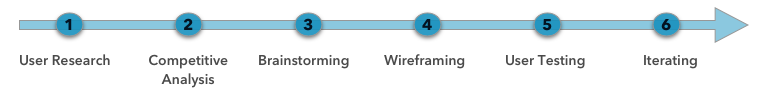
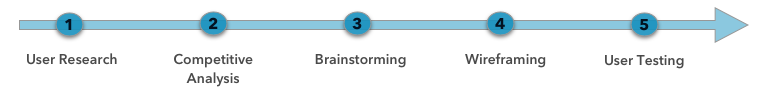
case study tweaks

diff --git a/eventapp/index.html b/eventapp/index.html
@@ -25,6 +25,7 @@
 			<h1>Dance Event App</h1>
 		</section>
 		<section>
+			<h2>The Problem</h2>
 			<p>West Coast Swing, Lindy Hop, Argentine Tango and other social dance forms have numerous annual events, workshop weekends and camps throughout the year. If you are willing to travel, you can go to an event every weekend. In order to learn about events, see the schedule, instructor and DJ list, and get hotel and travel information you have to visit each individual event website.</p>
 		</section>
 		<section>
@@ -34,28 +35,29 @@
 		<section>
 			<h2>The Approach</h2>
 			<img class="image" src="images/designapproach.jpg" alt="App Design Approach Diagram">
-			<h3>User Research</h3>
-			<p>I spoke with a variety of social dancers to get their feedback on the app and understand what features they would find most useful. I also asked them what information would be important to include about each event to help them determine if they wanted to attend. Here were my findings:</p>
+			<h3>1. User Research</h3>
+			<p>I spoke with a variety of social dancers to understand how they find out about events, what information is specifically important to help them determine if they want to attend an event and get their feedback on the app idea. Here were my findings:</p>
 			<ol>
+				<li>Many dancers find out about events from flyers, event websites, social media or word of mouth.</li>
 				<li>Dancers were excited about the idea and affirmed the need for a central resource.</li>
-				<li>There was less interest in the social or personalization components of the app.</li>
 				<li>They wanted to search and filter based on a lot of specific information about each event in order to determine if they wanted to attend.</li>
+				<li>There was less interest in the social or personalization components of the app.</li>
 			</ol>
-			<h3>Competitive Analysis</h3>
+			<h3>2. Competitive Analysis</h3>
 			<p>I reviewed numerous dance event websites and several websites that attempt to compile local and national events. Here were my takeaways:</p>
 			<ol>
 				<li>The websites that compile event information just list events based on location or date and don't have search and filter functionality.</li>
 				<li>You have to actually look at the event websites to get any detailed information about the event (cost, instructors, etc.).</li>
 				<li>The event websites themselves contain a lot of useful information that it didn't make sense to duplicate in the app.</li>
 			</ol>
-			<h3>Results</h3>
+			<p class="title">Results</p>
 			<p>Based on my research I realized the following:</p>
 			<ol>
 				<li>I needed to focus on one dance form -  I chose West Coast Swing.</li>
 				<li>The real value add of the app would be the search and filtering components; people have other resources to handle the other aspects of the process.</li>
 				<li>For each event I would need to focus on the important data points that users wanted to search and filter on rather than try to replicate all information from the event website.</li>
 			</ol>
-			<h3>Brainstorming</h3>
+			<h3>3. Brainstorming</h3>
 			<p>I started by sketching different ways to represent the data within the app.</p>
 			<div class="sketches">
 				<div class="row">
@@ -67,7 +69,7 @@
 					</div>
 				</div>
 			</div>
-			<h3>Wireframing</h3>
+			<h3>4. Wireframing</h3>
 			<p>I settled on the design that I believed would be most user-friendly and built a series of wireframes of the screens.</p>
 			<div class="wireframes">
 				<div class="row">
@@ -93,7 +95,7 @@
 					</div>
 				</div>
 			</div>
-			<h3>User Testing</h3>
+			<h3>5. User Testing</h3>
 			<p>I took my interactive wireframes to users and asked them to complete a series of tasks:</p>
 			<ol>
 				<li>Find pricing for the Summer Hummer event.</li>
@@ -102,20 +104,24 @@
 				<li>Find a WSDC registered event.</li>
 			</ol>
 			<p>Once the user had a chance to navigate around the app I also asked them to provide feedback on usability of the app and the information included for each event.</p>
-			<h3>Results</h3>
+			<p class="title">Results</p>
 			<p>Here are the takeaways from my user testing:</p>
 			<ol>
+				<li>Users liked having a central resource for events.</li>
 				<li>Most users didn't understand the filter icon used.</li>
 				<li>The word "comps" was confusing and the full word "competitions" should be used.</li>
-				<li>The location of the pricing and more info buttons should be switched.</li>
+				<li>The pricing and more info buttons should be switched.</li>
+				<li>They liked having the event venue and address easily accessible.</li>
 				<li>The event types should be changed to workshops, events, camps.</li>
 				<li>It was confusing having both "cancel" and "x" options to close windows. This functionality should be streamlined and placement should be consistent.</li>
 				<li>Rather than flipping between the map and list icons on the top nav bar, the icons should always exist and the one in use should be highlighted.</li>
 				<li>It would be good to add the ability to share an event via Facebook or email.</li>
 				<li>It would be nice to add event accessibility information so it's easy for dancers to see what travel arrangements will need to be made.</li>
 			</ol>
-			<h3>Iterating</h3>
-			<p class="final">I will be creating a new prototype version of the app that incorporates the feedback from user testing.</p>
+		</section>
+		<section>
+			<h2>Future Directions</h2>
+			<p class="final">Next steps for the project would be to use the feedback from user testing to create prototypes, perform further testing and then iterate.</p>
 		</section>
 		<footer>
 			<hr>

diff --git a/registration/index.html b/registration/index.html
@@ -41,7 +41,7 @@
 		<section>
 			<h2>The Approach</h2>
 			<img class="image" src="images/registrationapproach.png" alt="Registration Approach Diagram">
-			<h3>User Research</h3>
+			<h3>1. User Research</h3>
 			<p>At the start of each project I led a kickoff call with the project stakeholders at the school. The goal was to understand the following:</p>
 			<ol>
 				<li>Some basic information about the district.</li>
@@ -52,7 +52,7 @@
 			</ol>
 			<p>After the call, I would analyze the 10-50 pages of paper forms the district had previously sent to families at the start of the school year. I was looking to understand which students needed to complete each form, the type of data collected and any components that wouldn't work in an online format. For example, forms that required a doctor's signature would need to be available as a pdf for the family to print and complete at a later time so as not to hold up the rest of the registration process.</p>
 			<p>I also reviewed screenshots of the school's database to be sure I understood the data storage structure and any customizations they had made. It was imperative that the solution I designed matched the structure of the database so the collected data would be easily deliverable at the end of the process.</p>
-			<h3>Prototyping</h3>
+			<h3>2. Prototyping</h3>
 			<p>Next I developed an initial version of the solution.</p>
 			<p>I built a preview version of the online form that, unlike the paper forms, would collect each data point exactly once and do so in a structured, user-friendly way. I created an intuitive and efficient family process by focusing on the following:</p>
 			<ul>
@@ -61,7 +61,7 @@
 				<li><span class="title">Use of Logic</span> - I added leading questions and logic which allowed me to show sections of the form only to the applicable subset of students.</li>
 			</ul>
 			<p>On the administrative side, I customized the toolset and built a business process for admins that balanced efficiency and practicality. Some schools only cared about getting the data back into the database as quickly as possible, others wanted to make sure they followed up with families or produced reports based on the answers to certain questions. I designed a custom workflow based on the district's existing process and stated goals for the online solution.</p>
-			<h3>Testing</h3>
+			<h3>3. Testing</h3>
 			<p>With the initial version of the solution complete, I led a call with the customer to provide a demo. I walked through the functionality and requested that the project team review it with their users to gather feedback. This initiated a period of revisions during which the school would request changes and I would consult on any implications to their various user groups.</p>
 			<p>Once the solution was determined to be complete it was time to test functionality and usability. In addition to an extensive internal QA process, this generally included the following steps:</p>
 			<ol>
@@ -70,13 +70,13 @@
 				<li>Testing of the toolset by the school administrators.</li>
 			</ol>
 			<p>Feedback collected during this time was incorporated as much as made sense at this point in the project lifecycle.</p>
-			<h3>Deployment</h3>
+			<h3>4. Deployment</h3>
 			<p>With testing complete, the solution was launched and the school notified their community that registration was available online.</p>
-			<h3>User Feedback</h3>
+			<h3>5. User Feedback</h3>
 			<p>We received pretty immediate feedback if there was a major functionality issue with the solution; families would call our support line or the project team would reach out directly. Other feedback was filtered through the schools and we would hear about it during a post launch call with the customer.</p>
 			<p>Any items that were critical or easy to fix were addressed right away. More challenging items had to wait to be incorporated until the following year when it would not affect a live solution.</p>
 			<p>In addition to gathering feedback directly after launch, we conducted end-of-season calls with each customer. This provided us an opportunity to step back and examine if the solution fully met the needs of each of the users: families, admins, project stakeholders and the database. If not, we brainstormed about what could be improved the following year.</p>
-			<h3>Iteration</h3>
+			<h3>6. Iteration</h3>
 			<p>After the first year the project process shifted slightly since we were iterating on a previously developed solution. After an initial project kickoff call we would provide the preview version of the previous year's solution and initiate a period of revisions.</p>
 			<p class="final">This cycle allowed us to adjust and continually improve on the solution, incorporating user feedback from the previous year. Typically, after a couple of years we would get to a relatively stable solution that could then be used year-after-year.</p>
 		</section>

diff --git a/css/styles.css b/css/styles.css
@@ -400,7 +400,7 @@ body {
 	margin: 0;
 	z-index: 11;
 	line-height: 50px;
-	font-size: 16px;
+	font-size: 18px;
 }
 
 @media (max-width: 640px) {
@@ -411,7 +411,7 @@ body {
 
 .projectPage header nav {
 	text-align: right;
-	font-size: 20px;
+	font-size: 18px;
 	position: fixed;
 	top: 0;
 	left: 0;
